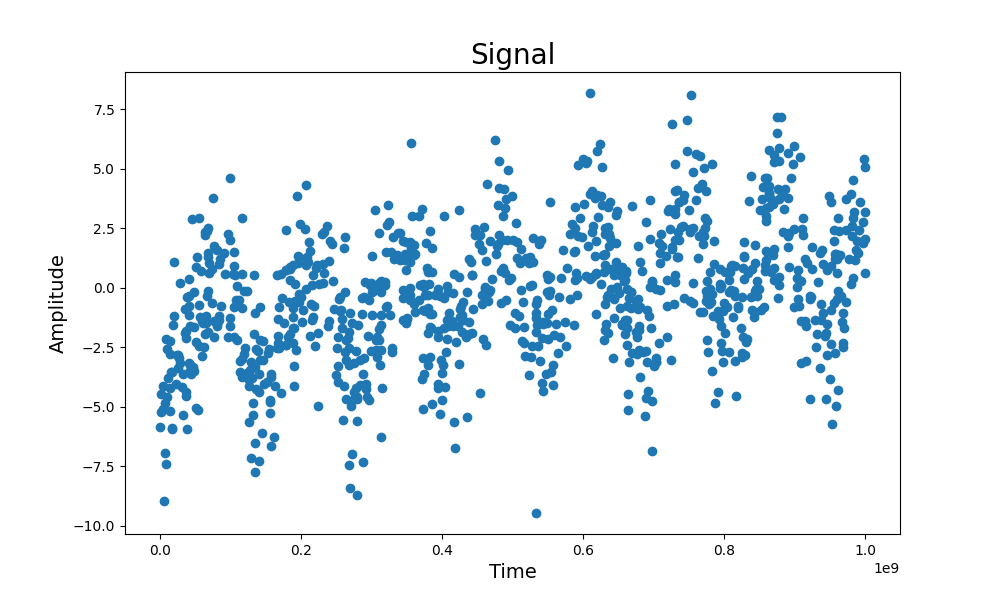
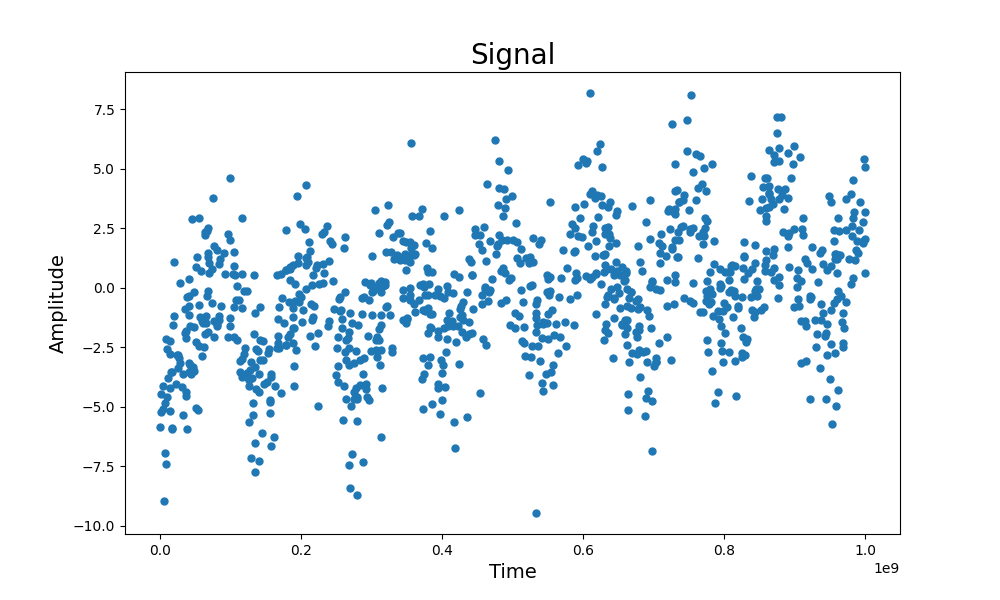
PS-5 Finalized

diff --git a/PS-5/Problem3/prob3.py b/PS-5/Problem3/prob3.py
@@ -2,55 +2,90 @@ import numpy as np
 import pandas as pd
 import matplotlib.pyplot as plt
 
-data = pd.read_csv('signal.dat', sep='\s+', header=0) 
+data = pd.read_csv('signal.dat', sep='\s+', header=0) #importing data.
+
+#plotting just the sample data.
+plt.figure()
+plt.figure(figsize=(10, 6)) 
+plt.title('Signal', fontsize = 20)
+plt.ylabel('Amplitude',fontsize = 14)
+plt.xlabel('Time',fontsize = 14)
+plt.plot(data['time'], data['signal'],'o', markersize = 5)
+plt.savefig('Signal')
+
+
+#asigning x and y to t(time) and a(amplitude).
+t = data['time'].values
+a = data['signal'].values
+
+def polynomial_fit(t,n): #SVD to make a polynomial fit.
+    ts = (t - np.mean(t))/np.std(t) #making the time data easier to work with.
+    T_n = np.column_stack([ts**i for i in range(n+1)]) #creating design matrix.
+    print(f'The condition number for the n = {n} polynomial fit is', np.linalg.cond(T_n)) #condition # of T_n
+
+    #SVD decomposition:
+    U, Sigma, V_T = np.linalg.svd(T_n, full_matrices=False)
+    Sigma_inv = np.diag(1/Sigma)
+    T_pseudoinv = V_T.T @ Sigma_inv @ U.T
+    co = T_pseudoinv @ a
+    poly_fit = T_n @ co #the polynomial fit.
+
+    return poly_fit
+
+
+t_fine = np.linspace(t.min(), t.max(), 1000) 
+fig, axs = plt.subplots(3, 1, figsize=(8.5, 11), sharex=True)
+
+#3rd Order Polynomial
+axs[0].plot(t, a, 'o', markersize=3, label='Signal Data')
+axs[0].plot(t_fine, polynomial_fit(t_fine, 3), label='3rd Order Polynomial Fit', color='r')
+axs[0].set_title('3rd Order Polynomial')
+axs[0].set_ylabel('Signal')
+axs[0].legend()
+print('The maximum residual for the n =3 polynomial is', np.max(a - polynomial_fit(t_fine,3)))
+
+#15th Order Polynomial
+axs[1].plot(t, a, 'o', markersize=3, label='Signal Data')
+axs[1].plot(t_fine, polynomial_fit(t_fine, 15), label='15th Order Polynomial Fit', color='g')
+axs[1].set_title('15th Order Polynomial')
+axs[1].set_ylabel('Signal')
+axs[1].legend()
+
+#27th Order Polynomial
+axs[2].plot(t, a, 'o', markersize=3, label='Signal Data')
+axs[2].plot(t_fine, polynomial_fit(t_fine, 27), label='27th Order Polynomial Fit', color='m')
+axs[2].set_title('27th Order Polynomial')
+axs[2].set_xlabel('Time')
+axs[2].set_ylabel('Signal')
+axs[2].legend()
+
+plt.tight_layout()
+plt.savefig('SVD')
+
+#Fourier SVD.
+def Fourier_Series(harmonic,f0):
+    F = np.zeros((np.size(t),2*harmonic+1))
+    F[:,0] = 1 #first column is the constant a0.
+    for h in range(1,harmonic+1):
+        F[:, 2*h-1] = np.cos(2*np.pi*h*f0*t)  # Cosine terms
+        F[:, 2*h] = np.sin(2*np.pi*h*f0*t)    # Sine terms
+    
+    co = np.linalg.pinv(F) @ a #coefficients found using pseudoinverse of F matrix.
+    Fourier_fit = F @ co
+    return Fourier_fit
+
 
 plt.figure()
 plt.figure(figsize=(10, 6)) 
 plt.title('Signal', fontsize = 20)
 plt.ylabel('Amplitude',fontsize = 14)
 plt.xlabel('Time',fontsize = 14)
-plt.scatter(data['time'], data['signal'])
-plt.savefig('Signal')
 
-
-
-t = data['time'].values
-a = data['signal'].values
-
-def polynomial_fit(t,n):
-    ts = (t - np.mean(t))/np.std(t)
-    T_n = np.column_stack([ts**i for i in range(n)])
-
-    U, Sigma, V_T = np.linalg.svd(T_n, full_matrices=False)
-    Sigma_inv = np.diag(1/Sigma)
-    T_pseudoinv = V_T.T @ Sigma_inv @ U.T
-    co = T_pseudoinv @ a
-    poly_fit = np.dot(T_n,co)
-
-    return poly_fit
-
-    residuals = a - poly_fit
-
-
-plt.figure(figsize=(8, 6))
-plt.subplot(2, 1, 1)
-plt.xlabel('Time')
-plt.ylabel('Signal')
-plt.title('Best 3rd Order Polynomial Fit to Signal')
-
-plt.plot(t, a, 'o', label='Signal Data')
-plt.scatter(t, polynomial_fit(t,3), label='3rd Order Polynomial Fit', color='red')
+plt.plot(data['time'], data['signal'],'o', markersize = 5, label = 'Signal Data')
+f_half = (t.max() - t.min())/2
+plt.plot(t,Fourier_Series(3,f_half), color = 'm')
+f_approx = 7.5/1e9
+plt.plot(t_fine,np.convolve(Fourier_Series(7,f_approx), np.ones(10)/10, mode='same'), color = 'm', label = 'Fourier Series')
 plt.legend()
+plt.savefig('Fourier')
 
-
-plt.subplot(2, 1, 2)
-plt.xlabel('Time')
-plt.ylabel('Signal')
-plt.title('Best nth Order Polynomial Fit to Signal')
-
-plt.plot(t, a, 'o', label='Signal Data')
-plt.scatter(t, polynomial_fit(t,6), label='6th Order Polynomial Fit', color='blue')
-plt.scatter(t, polynomial_fit(t,10), label='10th Order Polynomial Fit', color='m')
-plt.legend()
-plt.tight_layout()
-plt.savefig('SVD')

diff --git a/PS-5/Problem2/prob2.py b/PS-5/Problem2/prob2.py
@@ -17,17 +17,17 @@ plt.plot(xs,integrand(xs,2), label='a=2', color = 'b')
 plt.plot(xs,integrand(xs,3), label='a=3', color = 'r')
 plt.plot(xs,integrand(xs,4), label='a=4', color = 'm')
 plt.legend()
-plt.savefig('GammaFunction_Integrand')
+plt.savefig('Gamma_Integrand')
 
 def gamma(a):
     x,w = np.polynomial.legendre.leggauss(100) #generates x100 reference point locations and their weights for Legendre polynomials.
-    c = np.ones(100)*(a-1)
-    z = x/(x+c)
-    dz = (c)/(x+c)**2
-    f = np.exp(c*np.log(z) - z)
+    c = np.ones(100)*(a-1) #analytically calculated constant in change of variables.
+    z = x/(x+c) #change of variables to compute integral, changing upper bound from infinity to 1.
+    dz = (c)/(x+c)**2 #differential segment dz.
+    f = np.exp(c*np.log(z) - z) #gamma function integrand.
     gamfunc = 0.0
     for i in range(100):
-        gamfunc += w[i]*f[i]*dz[i]
+        gamfunc += w[i]*f[i]*dz[i] #gaussian quadrature integration.
     return gamfunc
     
 print(gamma(3/2))

diff --git a/PS-5/Problem1/prob1.py b/PS-5/Problem1/prob1.py
@@ -15,7 +15,7 @@ def central_difference(x): #calculates derivative of the function using central 
 
 #graph settings.
 plt.figure(figsize=(10, 6)) 
-plt.title('Derivative Methods', fontsize = 20)
+plt.title('Central Difference', fontsize = 20)
 plt.ylabel(r'Derivative $\frac{df}{dx}$',fontsize = 14)
 plt.xlabel('x',fontsize = 14)
 
@@ -23,4 +23,5 @@ plt.xlabel('x',fontsize = 14)
 x = np.linspace(-2,2,100)
 plt.scatter(x,[central_difference(xi) for xi in x], label='Central Difference dx=1e-6', color = 'b', s = 7)
 plt.plot(x,[1/(np.cosh(2*xi)**2) for xi in x], label = 'Analytic Derivative', color = 'r')
-plt.savefig('Derivative_Methods')
+plt.legend()
+plt.savefig('Central_Difference')
